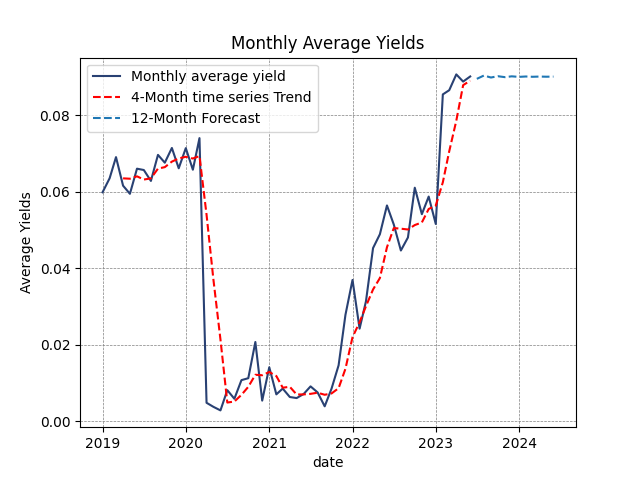
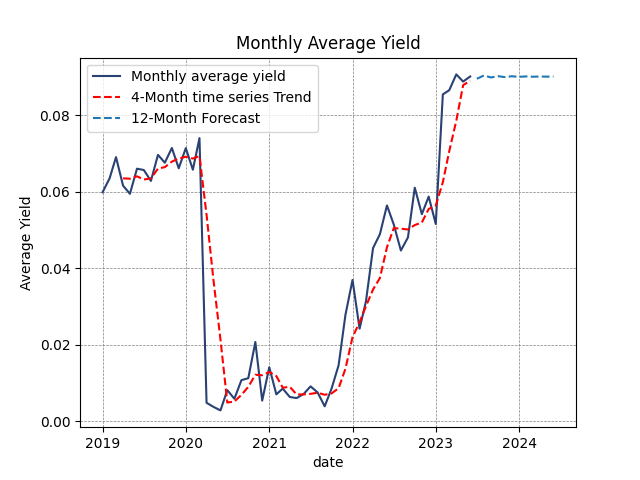
fixed some issues with pdf generation

Changed region(s): [[0.3438, 0.0625, 0.6562, 0.125], [0.0312, 0.4062, 0.0625, 0.625]]

diff --git a/DBanalysis/pdf_generation.py b/DBanalysis/pdf_generation.py
@@ -150,18 +150,18 @@ def avgYields(df):
 
     plt.plot(forecast_dates, forecast, label = '12-Month Forecast', linestyle = '--')
 
-    plt.title('Monthly Average Yields')
+    plt.title('Monthly Average Yield')
     plt.legend()
     plt.xlabel('date')
-    plt.ylabel('Average Yields')
+    plt.ylabel('Average Yield')
     plt.grid( color = 'grey', linestyle = '--', linewidth = 0.5)
     plt.savefig('avg_yields.png')
 
     max = df.loc[df['yield'].idxmax()]
     min = df.loc[df['yield'].idxmin()]
-    paragraphstr = f"""This graph shows the average yield traveled per month in this route. The highest average yielded
-                        per month is {max['yield']*100} %, which happened in {max['month'].to_period(freq = 'M')}.
-                        The lowest average revenue per month is {min['yield']*100} %, which happened in {min['month'].to_period(freq = 'M')}
+    paragraphstr = f"""This graph shows the average yield traveled per month in this route. The highest average yield
+                        per month is {max['yield']}, which happened in {max['month'].to_period(freq = 'M')}.
+                        The lowest average revenue per month is {min['yield']}, which happened in {min['month'].to_period(freq = 'M')}
                         As of {df.iloc[-1,0]}, the average monthly yield is {df.iloc[-1,1]}. \n"""
     lastrow = df.iloc[-1]
     seclastrow = df.iloc[-2]

diff --git a/DBanalysis/qry_generation_route.py b/DBanalysis/qry_generation_route.py
@@ -28,5 +28,3 @@ def generateR(origin, orig_continent, destination):
     eg_df = pd.read_sql_query(text(qry), conn)
     print(eg_df)
     return eg_df
-
-generateR('HI','W','L')
